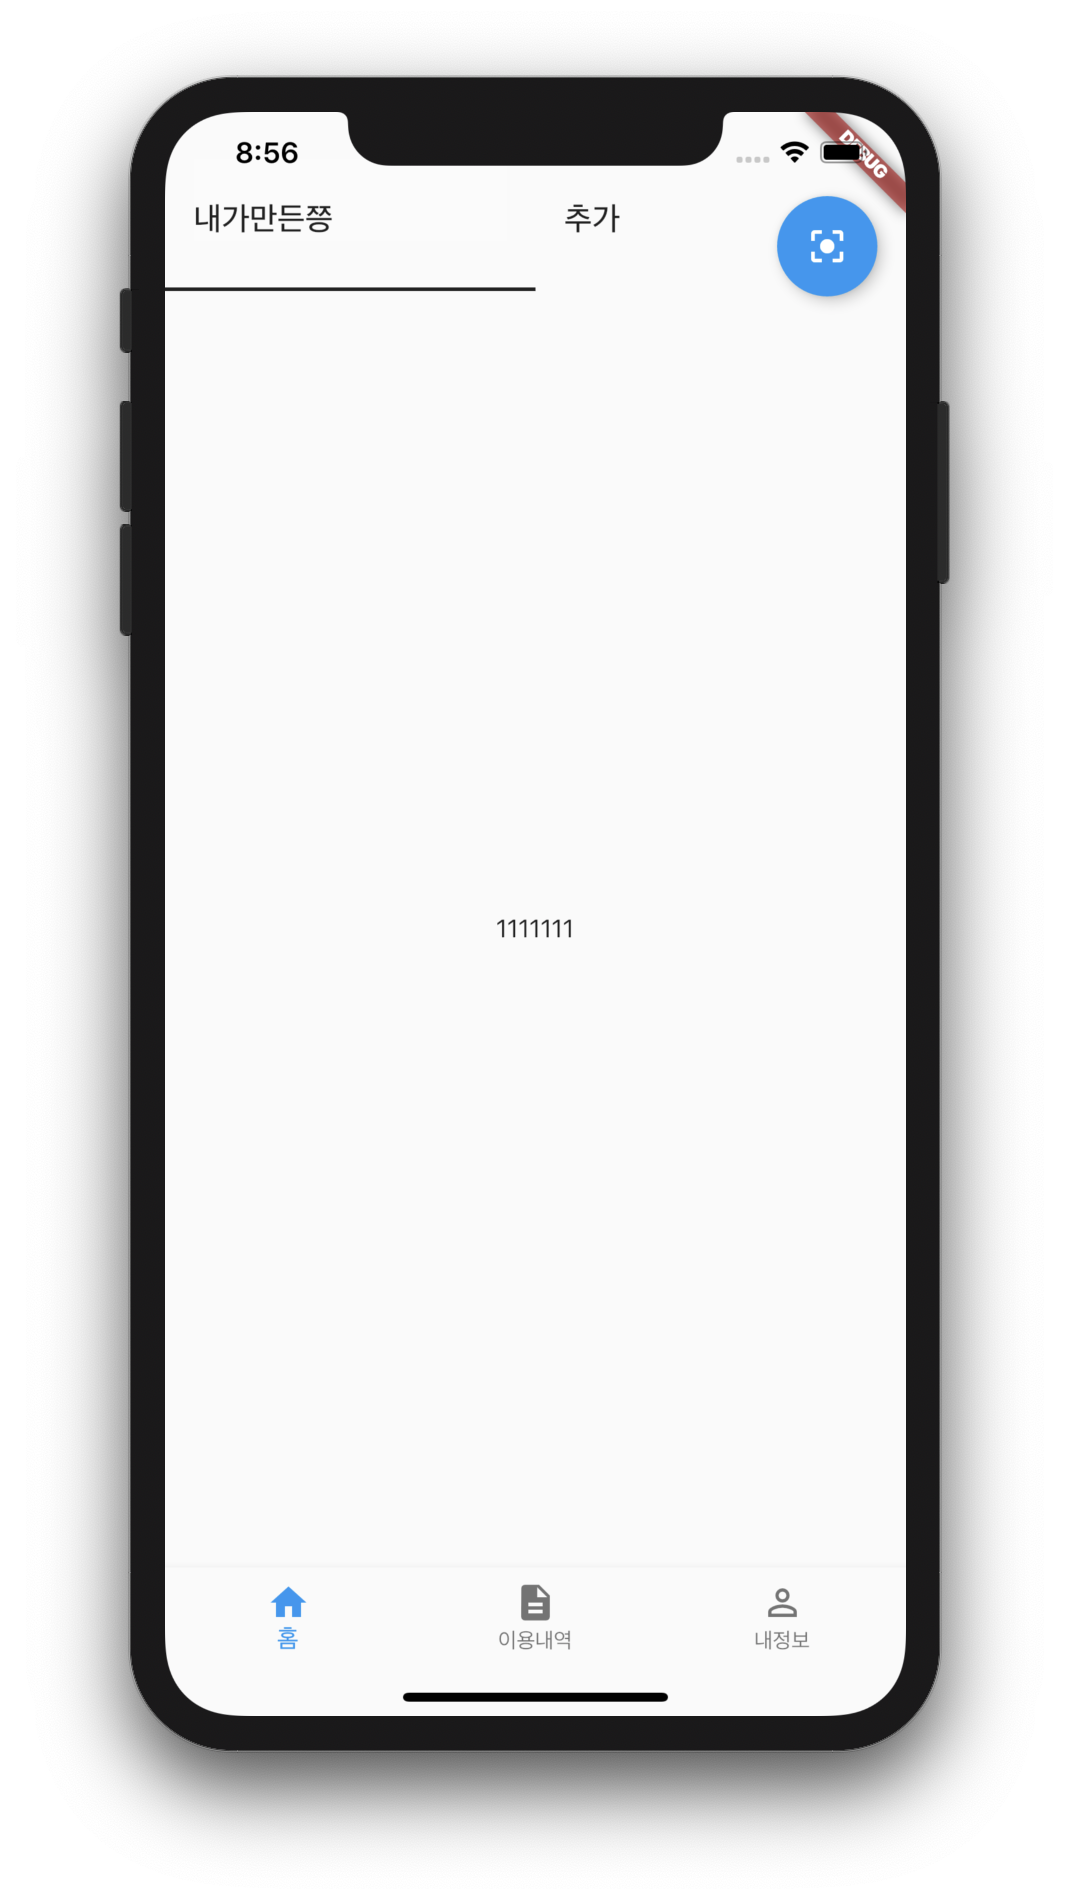
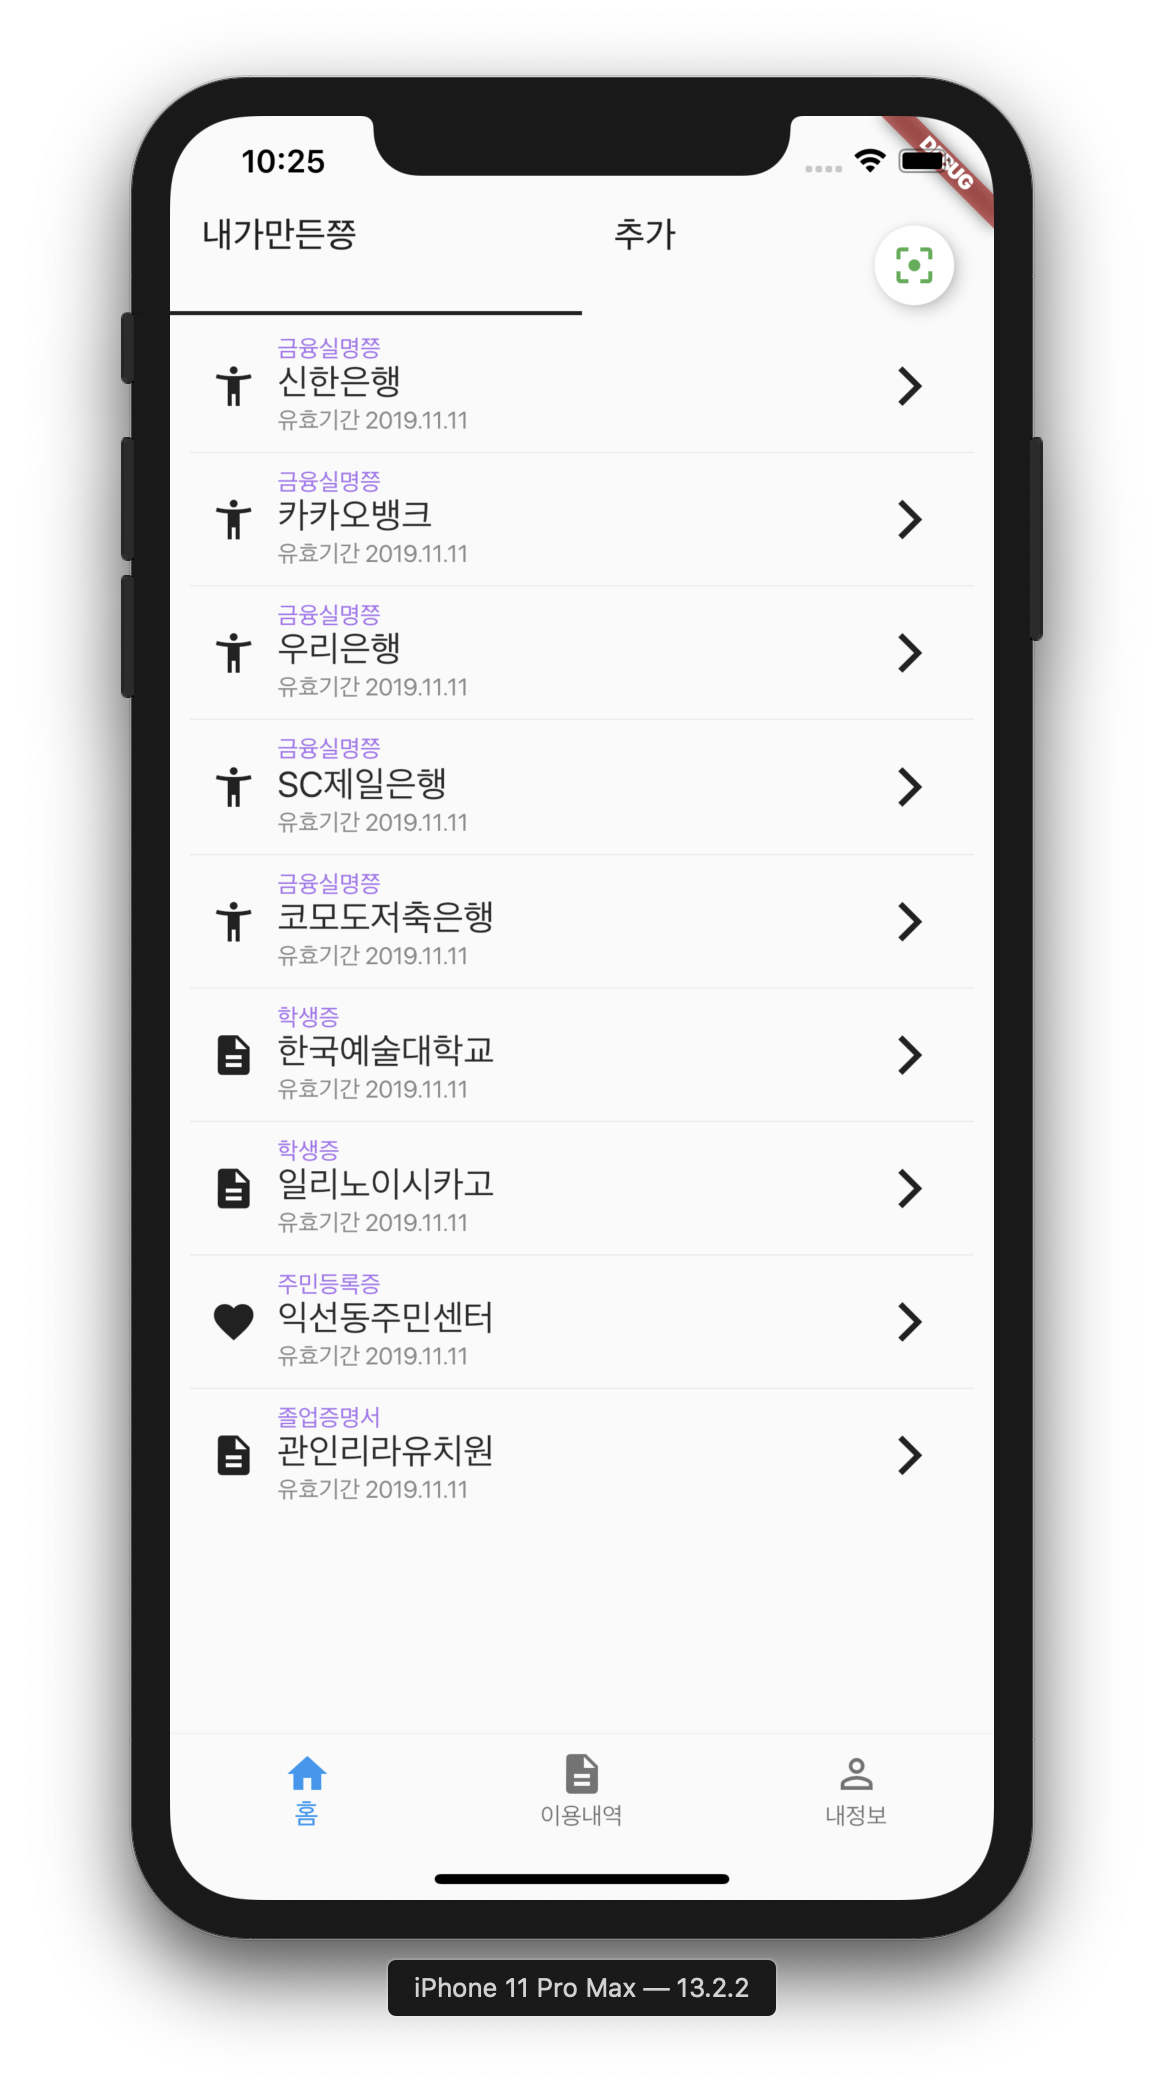
Implement listview.

diff --git a/lib/data/Credential.dart b/lib/data/Credential.dart
@@ -1,11 +1,8 @@
-
 import 'package:flutter/material.dart';
 
 class Credential {
-
-
-
   String _name;
+  String _issuer;
   String _type;
   Icon _icon;
   String _expire;
@@ -19,6 +16,8 @@ class Credential {
 
   String get expire => _expire;
 
+  String get issuer => _issuer;
+
   @override
   String toString() {
     return 'Credential : name=$_name, type=$_type';
@@ -26,19 +25,39 @@ class Credential {
 
   List<Claim> get list => _list;
 
-  Credential(this._name, this._type, this._icon, this._expire);
+  Credential(this._name, this._issuer, this._type, this._icon, this._expire);
 
   static List<Credential> makeTestData() {
-    Credential cr1 = Credential('금융실명쯩', '1', Icon(Icons.accessibility_new), '2019.11.11');
-    Credential cr2 = Credential('학생증', '2', Icon(Icons.description), '2019.11.11');
-    Credential cr3 = Credential('주민등록증', '2', Icon(Icons.favorite), '2019.11.11');
-    Credential cr4 = Credential('졸업증명서', '2', Icon(Icons.description), '2019.11.11');
+    Credential cr1 = Credential(
+        '금융실명쯩', '신한은행', '1', Icon(Icons.accessibility_new), '2019.11.11');
+    Credential cr11 = Credential(
+        '금융실명쯩', '카카오뱅크', '1', Icon(Icons.accessibility_new), '2019.11.11');
+    Credential cr12 = Credential(
+        '금융실명쯩', '우리은행', '1', Icon(Icons.accessibility_new), '2019.11.11');
+    Credential cr13 = Credential(
+        '금융실명쯩', 'SC제일은행', '1', Icon(Icons.accessibility_new), '2019.11.11');
+    Credential cr14 = Credential(
+        '금융실명쯩', '코모도저축은행', '1', Icon(Icons.accessibility_new), '2019.11.11');
+
+    Credential cr2 = Credential(
+        '학생증', '한국예술대학교', '2', Icon(Icons.description), '2019.11.11');
+    Credential cr22 = Credential(
+        '학생증', '일리노이시카고', '2', Icon(Icons.description), '2019.11.11');
+    Credential cr3 =
+        Credential('주민등록증', '익선동주민센터', '2', Icon(Icons.favorite), '2019.11.11');
+    Credential cr4 = Credential(
+        '졸업증명서', '관인리라유치원', '2', Icon(Icons.description), '2019.11.11');
 
     List<Credential> list = [];
-    list ..add(cr1)
-    ..add(cr2)
-    ..add(cr3)
-    ..add(cr4);
+    list
+      ..add(cr1)
+      ..add(cr11)
+      ..add(cr12)
+      ..add(cr13)
+      ..add(cr14)
+      ..add(cr2)..add(cr22)
+      ..add(cr3)
+      ..add(cr4);
 
     return list;
   }

diff --git a/lib/ui/main/main_screen.dart b/lib/ui/main/main_screen.dart
@@ -52,34 +52,55 @@ class MainPage extends StatelessWidget {
     return ListView.separated(
       padding: const EdgeInsets.all(10),
       itemCount: crList.length,
-      itemBuilder: (BuildContext, int index) {
+      itemBuilder: (BuildContext context, int index) {
         return _buildCredentialItem(crList[index]);
       },
       separatorBuilder: (BuildContext context, int index) => const Divider(),
     );
   }
 
+  /***********************
+   * Credential List Item
+   ***********************/
   Container _buildCredentialItem(Credential credential) {
     return Container(
       child: Row(
         children: [
-          credential.icon,
+          Container(
+            padding: const EdgeInsets.only(left: 10, right: 10),
+            child: credential.icon,
+          ),
           Expanded(
             child: Column(
               crossAxisAlignment: CrossAxisAlignment.start,
               children: [
+                Text(credential.name,
+                    style: TextStyle(
+                      fontSize: 12,
+                      color: Color.fromRGBO(167, 113, 239, 1),
+                    )),
                 Text(
-                  credential.name,
+                  credential.issuer,
                   style: TextStyle(
-                    fontWeight: FontWeight.bold,
-                  )
+                    fontSize: 18,
+                    color: Color.fromRGBO(43, 43, 43, 1),
+                  ),
                 ),
-                Text(credential.type),
-                Text('유효기간 ' + credential.expire),
+                Text('유효기간 ' + credential.expire,
+                    style: TextStyle(
+                      fontSize: 12,
+                      color: Color.fromRGBO(138, 138, 138, 1),
+                    )
+                ),
               ],
             ),
           ),
+          Container(
+            padding: const EdgeInsets.only(right: 20),
+            child: Icon(Icons.arrow_forward_ios),
+          ),
         ],
+
       ),
     );
   }
